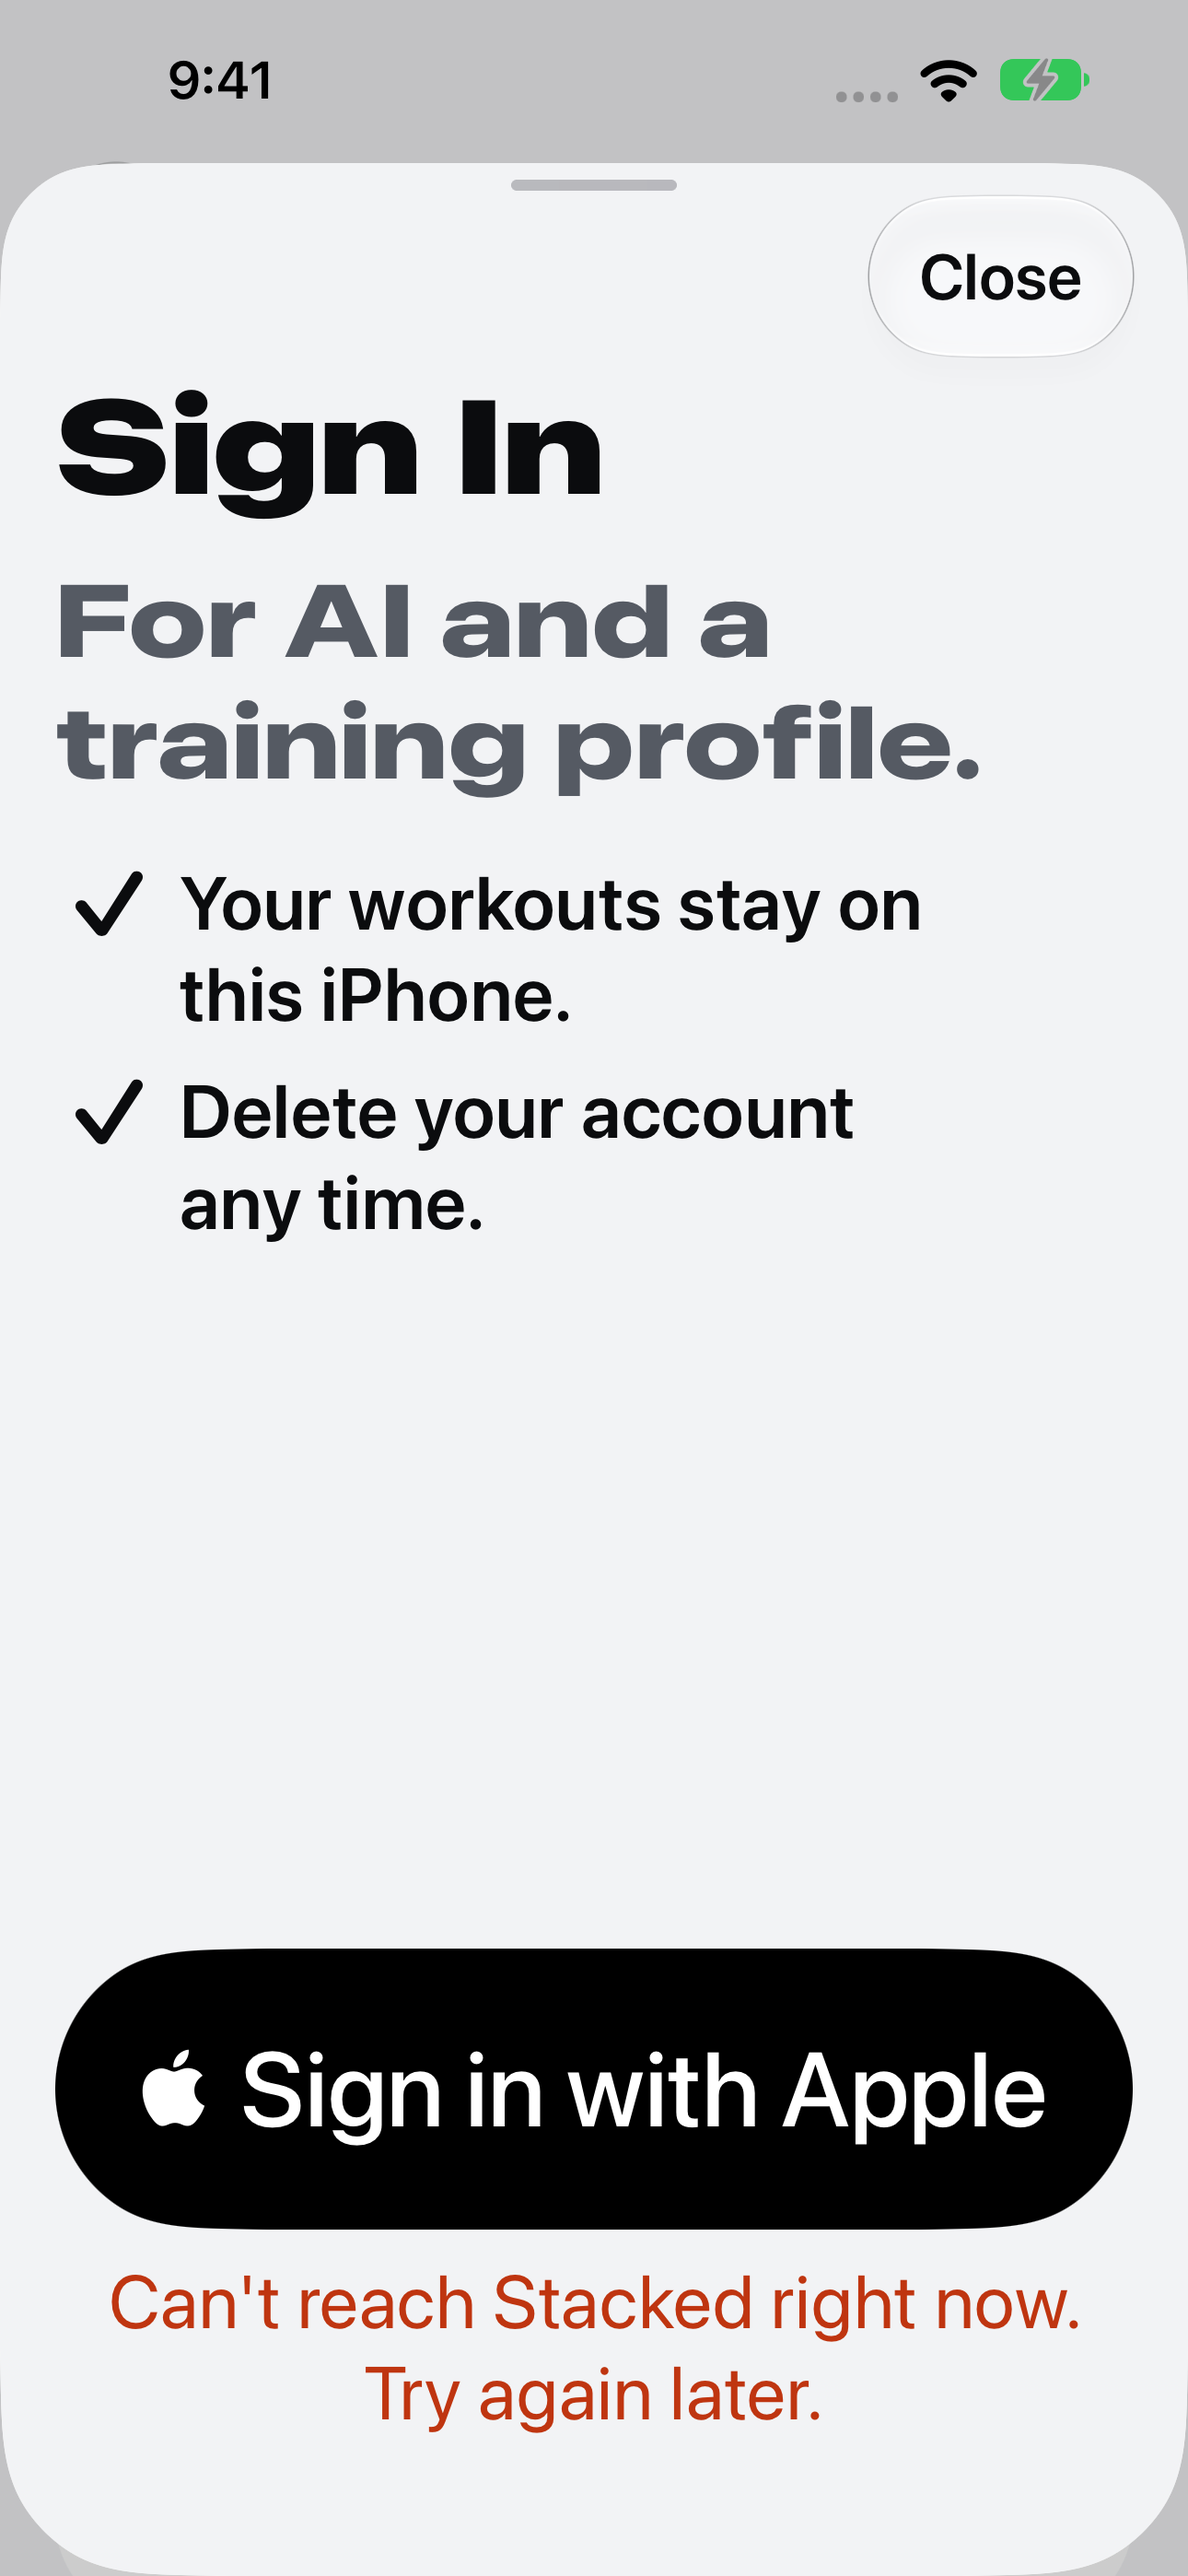
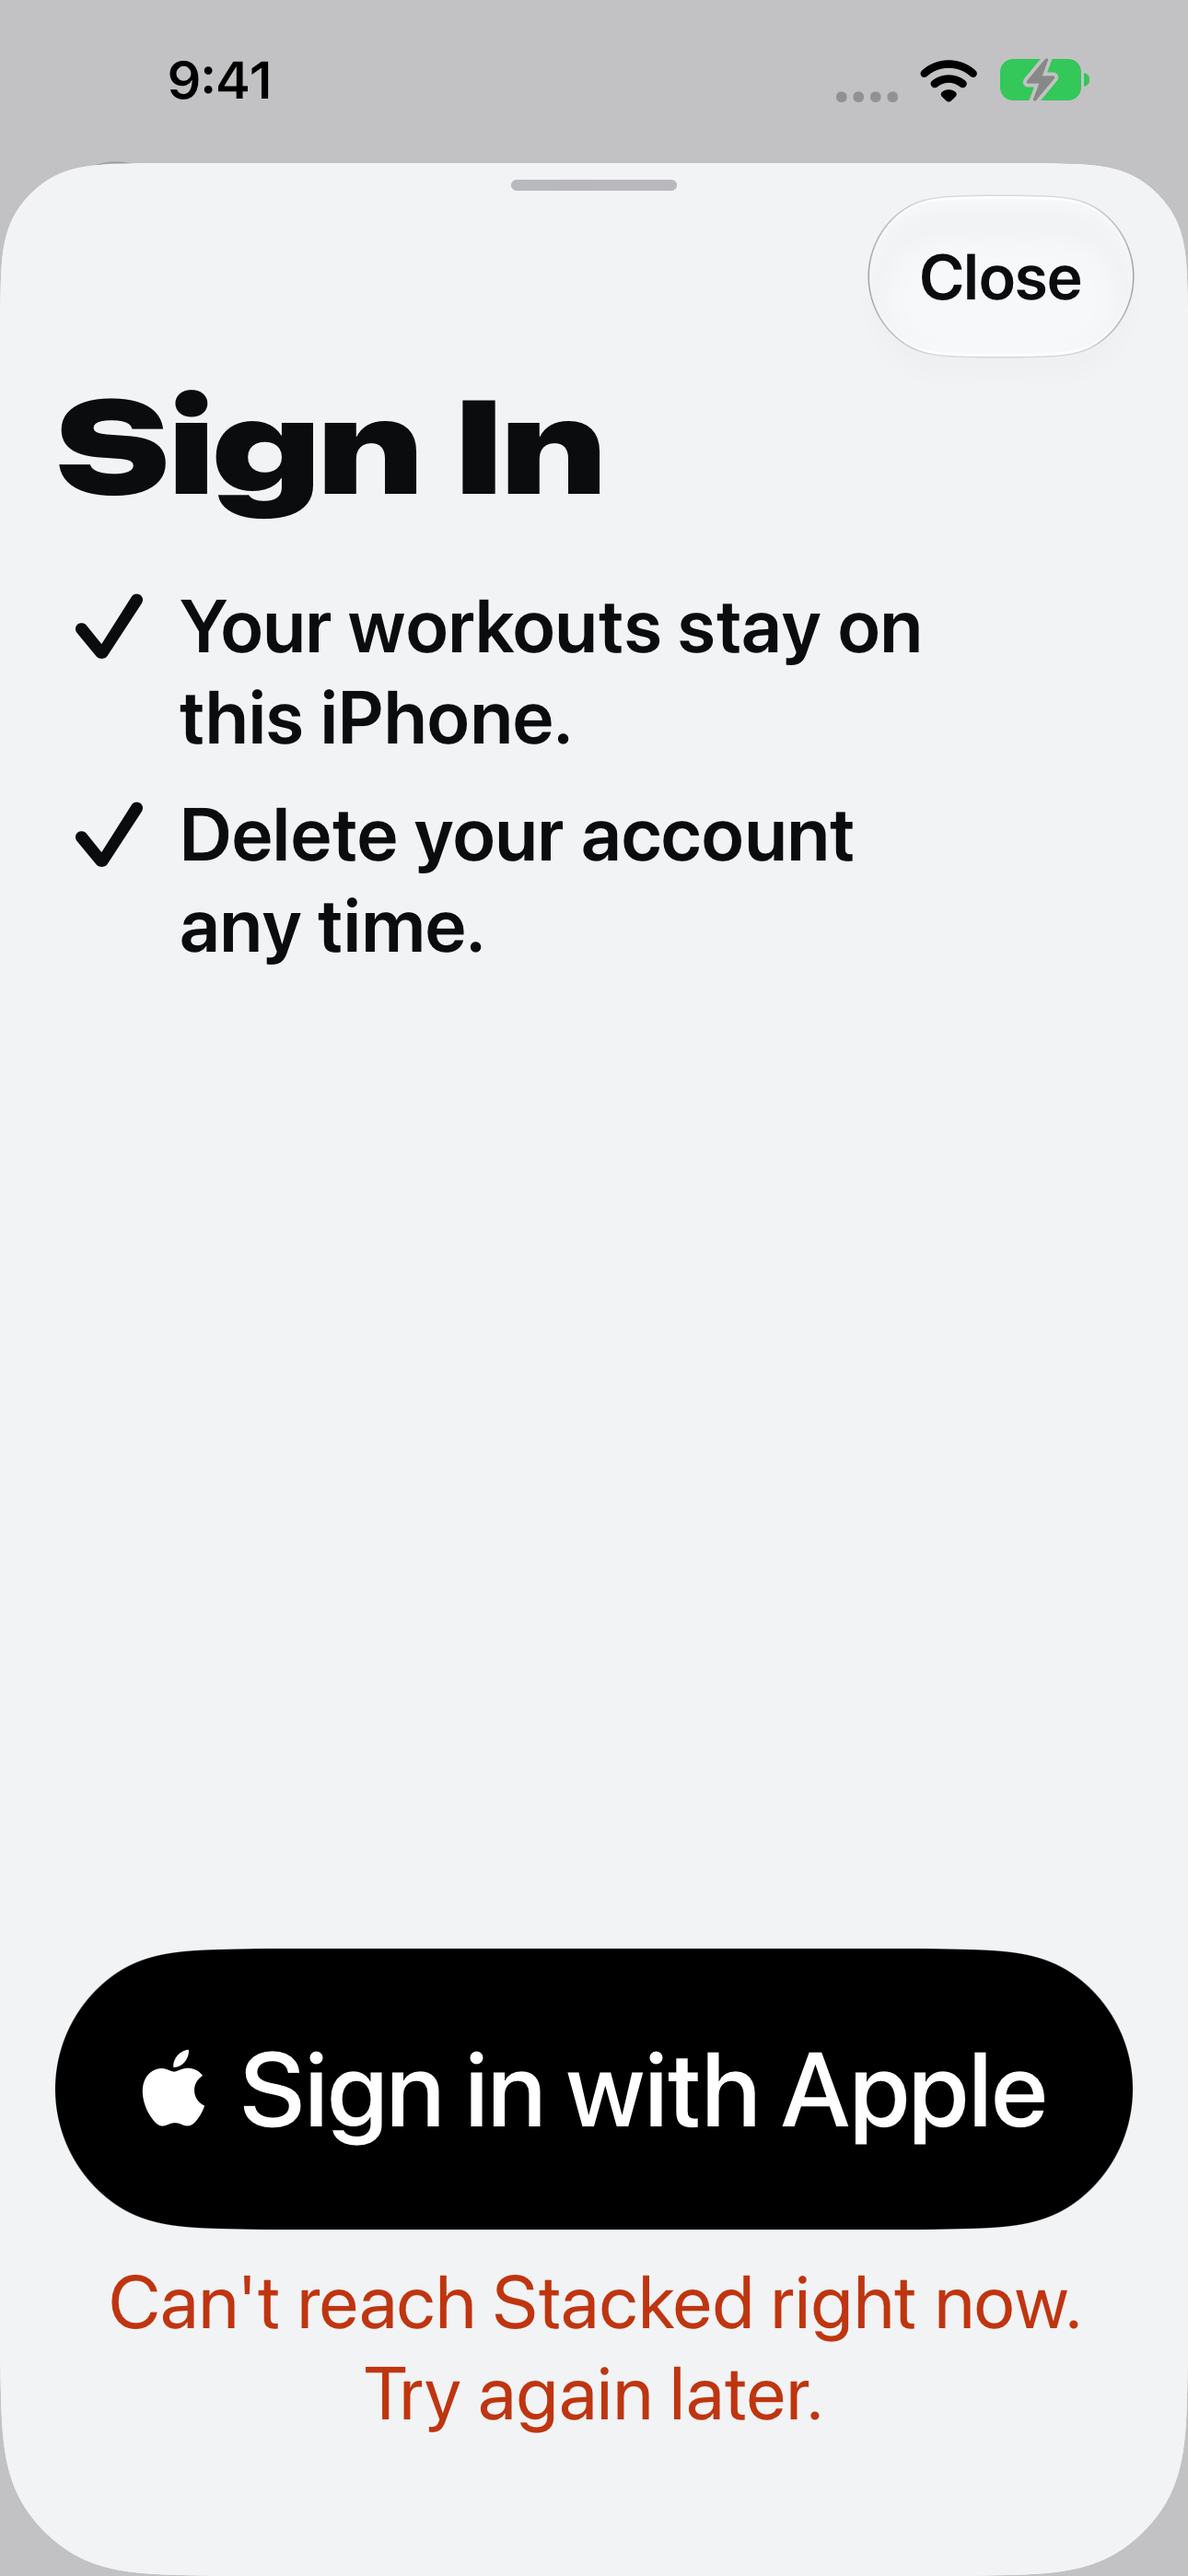
Beta 03 app half: mock approved by the user, minus 'For AI and a training profile.' (sheet and Settings row)

diff --git a/WorkoutTracker/Features/Account/SignInViews.swift b/WorkoutTracker/Features/Account/SignInViews.swift
@@ -22,8 +22,9 @@ struct AppleSignInButton: View {
 }
 
 /// Settings → Account, signed out (the user's choice, 2026-10-13: a small sheet rather than Apple's sheet at once —
-/// Google's button joins this one in ticket 04). What signing in is for, the two facts that make it safe to say yes,
-/// and Apple's button in the thumb's reach. The sheet only shows, so it offers Close (no staged edits).
+/// Google's button joins this one in ticket 04). The title, the two facts that make it safe to say yes, and Apple's
+/// button in the thumb's reach (the user removed "For AI and a training profile.", 2026-10-13). The sheet only
+/// shows, so it offers Close (no staged edits).
 struct SignInSheet: View {
     /// One line under the button when the last attempt failed.
     var failure: String?
@@ -53,10 +54,6 @@ struct SignInSheet: View {
                         .font(look.font.largeTitle)
                         .foregroundStyle(look.textPrimary)
                         .accessibilityAddTraits(.isHeader)
-                    Text("For AI and a training profile.")
-                        .font(look.font.title3)
-                        .foregroundStyle(look.textSecondary)
-                        .fixedSize(horizontal: false, vertical: true)
                     VStack(alignment: .leading, spacing: 10) {
                         SettingsNotice(symbol: "checkmark", text: "Your workouts stay on this iPhone.", emphasized: true)
                         SettingsNotice(symbol: "checkmark", text: "Delete your account any time.", emphasized: true)

diff --git a/WorkoutTracker/Features/Account/ProfileView.swift b/WorkoutTracker/Features/Account/ProfileView.swift
@@ -203,7 +203,7 @@ struct ProfileView: View {
 
 // MARK: - Settings → Account row
 
-/// The row at the top of Settings (spec → Profile page): the name and email signed in; "Sign In" signed out.
+/// The row at the top of Settings (spec → Profile page): the name and email signed in; "Sign In" alone signed out.
 struct SettingsAccountRow: View {
     var profile: AccountProfile?
     var action: () -> Void
@@ -231,10 +231,13 @@ struct SettingsAccountRow: View {
                     Text(profile?.displayName ?? "Sign In")
                         .font(.system(.body, weight: .semibold))
                         .foregroundStyle(look.textPrimary)
-                    Text(profile?.email ?? "For AI and a training profile.")
-                        .font(look.font.footnote)
-                        .foregroundStyle(look.textSecondary)
-                        .fixedSize(horizontal: false, vertical: true)
+                    // Signed out: the title alone (the user removed "For AI and a training profile.", 2026-10-13).
+                    if let email = profile?.email {
+                        Text(email)
+                            .font(look.font.footnote)
+                            .foregroundStyle(look.textSecondary)
+                            .fixedSize(horizontal: false, vertical: true)
+                    }
                 }
                 Spacer(minLength: 8)
                 Image(systemName: "chevron.right")

diff --git a/work-record/public-beta/issues/03-server-and-apple-sign-in.md b/work-record/public-beta/issues/03-server-and-apple-sign-in.md
@@ -226,7 +226,7 @@ Sign-in sheet (medium detent)          Welcome
 └──────────────────────────────┘
 ```
 
-**Proposed copy (the user's decision):** sheet **Sign In**, *For AI and a training profile.*, *Your workouts stay on
+**Approved copy:** sheet **Sign In**, *Your workouts stay on
 this iPhone.*, *Delete your account any time.*, **Close**, *Signing in…*; failures *Can't reach Stacked right now. Try
 again later.* / *Couldn't sign in. Try again.*; welcome *Signed in as {name}.*; delete **Delete your account?** /
 *Your name, email, training profile and feedback are deleted from Stacked's server. Your workouts on this iPhone
@@ -245,6 +245,11 @@ goes to the large detent).
 failure line, delete confirmation and follow-up, welcome before and after signing in — light/dark × Default/
 AccessibilityL (24). Sample flags: `-uiTestProfileSignedOut` (row → sheet), `-uiTestSignInFailed`,
 `-uiTestWelcomeSignedIn`; nothing is sent yet (Apple's button is live but its handlers are empty).
+
+**The user's approval (2026-10-13):** "just get rid of phrases 'for ai and training profile'. Rest looks good." —
+removed from the sign-in sheet **and** from the Settings row signed out (it now reads "Sign In" alone; ticket 05's
+`profile-settings-signedout-*` captures show the older row). Everything else above approved as shown. Recaptured
+(`FloodlightAccountUITests` 4/4); `../captures/03/` holds the approved versions.
 
 ## Acceptance
 
